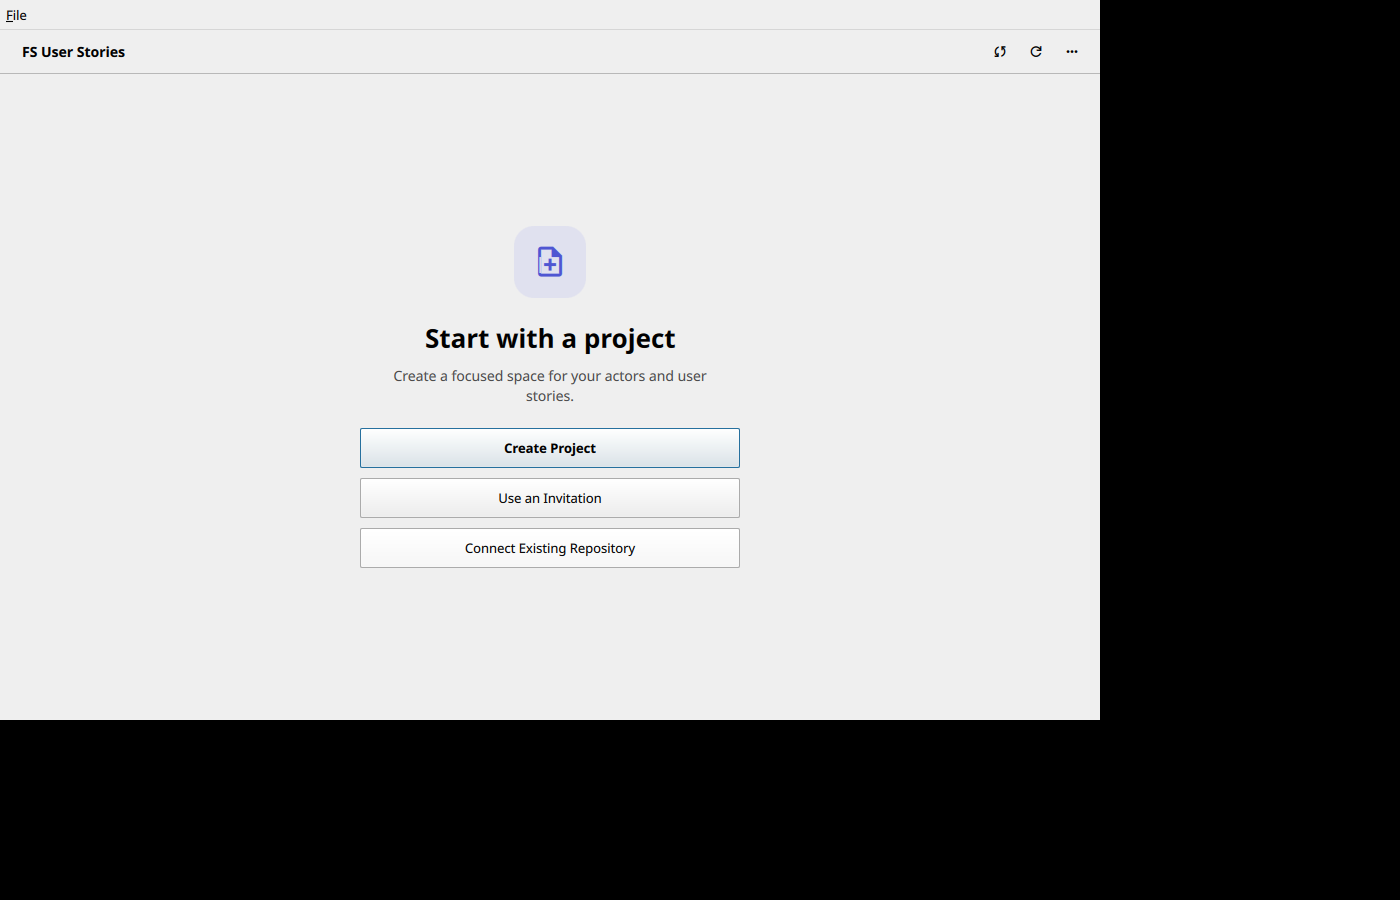
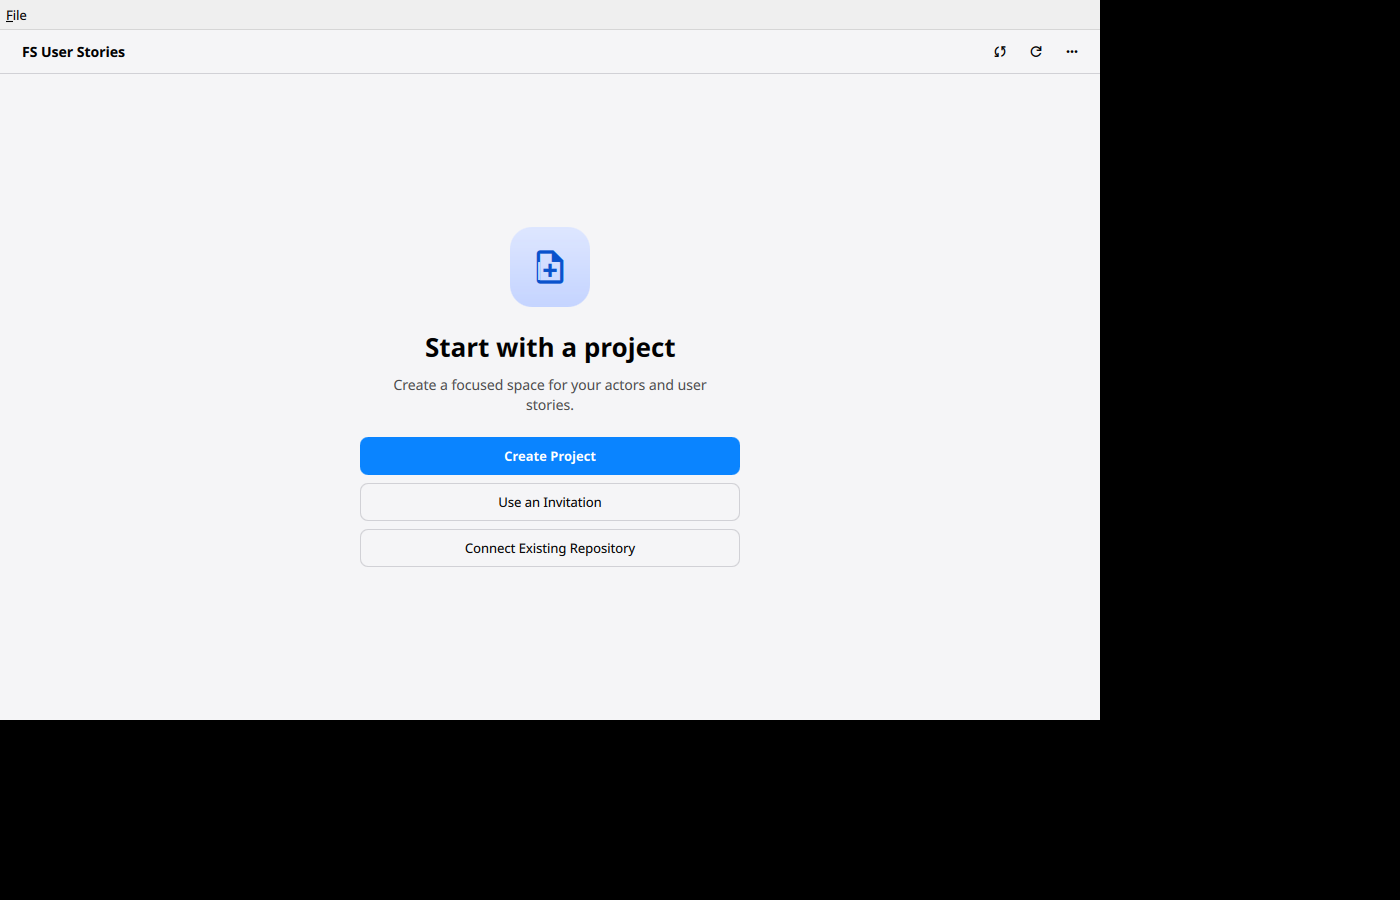
qt: macOS-flavored palette and Apple-style welcome tile
Cosmetics pass to close the gap with the macOS reference screenshot:

- Override the QPalette globally with macOS colours (Window #f5f5f7,
  Text #1d1d1f, Highlight #0a84ff Apple blue, Mid #d1d1d6, etc.) so the
  default 'Fusion' palette stops making the app look like a generic
  Linux desktop.
- Use the platform's native UI font (SF Pro Text on mac, Segoe UI
  Variable on Windows) instead of the Qt default.
- WelcomeView tile: 80x80 with a light blue gradient (matches the macOS
  accent-tinted card), blue note_add icon, 8px rounded buttons in the
  same Apple blue (Create Project) and subtle white-with-grey-border
  style (Use an Invitation / Connect Existing Repository), in the same
  macOS button proportions (38px tall).

Changed region(s): [[0.2457, 0.28, 0.5529, 0.5911]]

diff --git a/Platform/Qt/src/qml/WelcomeView.qml b/Platform/Qt/src/qml/WelcomeView.qml
@@ -26,17 +26,21 @@ Item {
             spacing: 22
             width: 380
 
-            // Rounded icon tile (matches mac "text.badge.plus" 64x64 tile).
+            // Rounded icon tile (macOS-style: large rounded square with gradient).
             Rectangle {
                 Layout.alignment: Qt.AlignHCenter
-                width: 72; height: 72; radius: 20
-                color: Qt.rgba(0.34, 0.40, 0.95, 0.10)   // accent-tinted background
+                width: 80; height: 80; radius: 22
+                gradient: Gradient {
+                    orientation: Gradient.Vertical
+                    GradientStop { position: 0.0; color: "#dde6ff" }
+                    GradientStop { position: 1.0; color: "#c5d4ff" }
+                }
                 IconLabel {
                     anchors.centerIn: parent
                     text: "note_add"
-                    font.pixelSize: 36
+                    font.pixelSize: 40
                     font.weight: Font.Bold
-                    color: "#4f56d2"
+                    color: "#0a52cc"
                 }
             }
 
@@ -64,31 +68,55 @@ Item {
             ColumnLayout {
                 Layout.alignment: Qt.AlignHCenter
                 Layout.fillWidth: true
-                spacing: 10
+                spacing: 8
 
                 Button {
                     text: qsTr("Create Project")
                     Layout.fillWidth: true
-                    Layout.preferredHeight: 40
+                    Layout.preferredHeight: 38
                     font.pixelSize: 13
                     font.weight: Font.DemiBold
-                    highlighted: true
+                    contentItem: Label {
+                        text: parent.text
+                        color: "white"
+                        font.pixelSize: 13
+                        font.weight: Font.DemiBold
+                        horizontalAlignment: Text.AlignHCenter
+                        verticalAlignment: Text.AlignVCenter
+                    }
+                    background: Rectangle {
+                        radius: 8
+                        color: parent.down ? "#006edc" : "#0a84ff"
+                        border.width: 0
+                    }
                     onClicked: root.openCreateProject()
                 }
                 Button {
                     text: qsTr("Use an Invitation")
                     Layout.fillWidth: true
-                    Layout.preferredHeight: 40
+                    Layout.preferredHeight: 38
                     font.pixelSize: 13
                     font.weight: Font.Medium
+                    background: Rectangle {
+                        radius: 8
+                        color: parent.down ? "#e5e5ea" : "#f5f5f7"
+                        border.color: "#d1d1d6"
+                        border.width: 1
+                    }
                     onClicked: root.openJoinShared()
                 }
                 Button {
                     text: qsTr("Connect Existing Repository")
                     Layout.fillWidth: true
-                    Layout.preferredHeight: 40
+                    Layout.preferredHeight: 38
                     font.pixelSize: 13
                     font.weight: Font.Medium
+                    background: Rectangle {
+                        radius: 8
+                        color: parent.down ? "#e5e5ea" : "#f5f5f7"
+                        border.color: "#d1d1d6"
+                        border.width: 1
+                    }
                     onClicked: root.openJoinShared()
                 }
             }

diff --git a/Platform/Qt/src/main.cpp b/Platform/Qt/src/main.cpp
@@ -3,6 +3,7 @@
 #include <QApplication>
 #include <QQmlApplicationEngine>
 #include <QQmlContext>
+#include <QPalette>
 #include <QQuickStyle>
 #include <QStandardPaths>
 #include <QIcon>
@@ -58,6 +59,50 @@ int main(int argc, char *argv[])
 
     QApplication app(argc, argv);
     QApplication::setWindowIcon(QIcon::fromTheme(QStringLiteral("fs-user-stories")));
+
+    // macOS-flavoured palette. Even on Windows/Linux the app reads closer to
+    // the macOS reference screenshot. macOS-style colours:
+    //   * Window / Base: very light grey/white (#f5f5f7 / #ffffff)
+    //   * Text: near-black (#1d1d1f)
+    //   * Highlight: Apple blue (#0a84ff, the macOS 11+ accent)
+    //   * HighlightedText: white
+    //   * Mid (dividers, borders): #d1d1d6
+    {
+        QPalette mac;
+        mac.setColor(QPalette::Window,        QColor(0xf5, 0xf5, 0xf7));
+        mac.setColor(QPalette::WindowText,    QColor(0x1d, 0x1d, 0x1f));
+        mac.setColor(QPalette::Base,          QColor(0xff, 0xff, 0xff));
+        mac.setColor(QPalette::AlternateBase, QColor(0xf5, 0xf5, 0xf7));
+        mac.setColor(QPalette::ToolTipBase,    QColor(0xff, 0xff, 0xff));
+        mac.setColor(QPalette::ToolTipText,    QColor(0x1d, 0x1d, 0x1f));
+        mac.setColor(QPalette::Text,           QColor(0x1d, 0x1d, 0x1f));
+        mac.setColor(QPalette::Button,        QColor(0xff, 0xff, 0xff));
+        mac.setColor(QPalette::ButtonText,    QColor(0x1d, 0x1d, 0x1f));
+        mac.setColor(QPalette::Highlight,      QColor(0x0a, 0x84, 0xff));
+        mac.setColor(QPalette::HighlightedText,QColor(0xff, 0xff, 0xff));
+        mac.setColor(QPalette::Mid,           QColor(0xd1, 0xd1, 0xd6));
+        mac.setColor(QPalette::Light,         QColor(0xf5, 0xf5, 0xf7));
+        mac.setColor(QPalette::Dark,          QColor(0x6e, 0x6e, 0x73));
+        mac.setColor(QPalette::PlaceholderText,QColor(0xa1, 0xa1, 0xa6));
+        app.setPalette(mac);
+    }
+
+    // Default font for the app: SF Pro Text on mac, Segoe UI on Windows, the
+    // platform default elsewhere. The exact SF Pro metrics make a noticeable
+    // visual difference on macOS, while Segoe UI Variable matches what most
+    // testers expect on Windows.
+    {
+        QFont uiFont = app.font();
+#ifdef Q_OS_MACOS
+        uiFont.setFamily(QStringLiteral("SF Pro Text"));
+#elif defined(Q_OS_WIN)
+        uiFont.setFamily(QStringLiteral("Segoe UI Variable"));
+#endif
+#ifdef Q_OS_LINUX
+        uiFont.setPointSize(10);
+#endif
+        app.setFont(uiFont);
+    }
 
     // Load Material Symbols Outlined (OFL-licensed, OFL file bundled at
     // <bindir>/resources/fonts/MaterialSymbolsOutlined-Variable.woff2 by the
